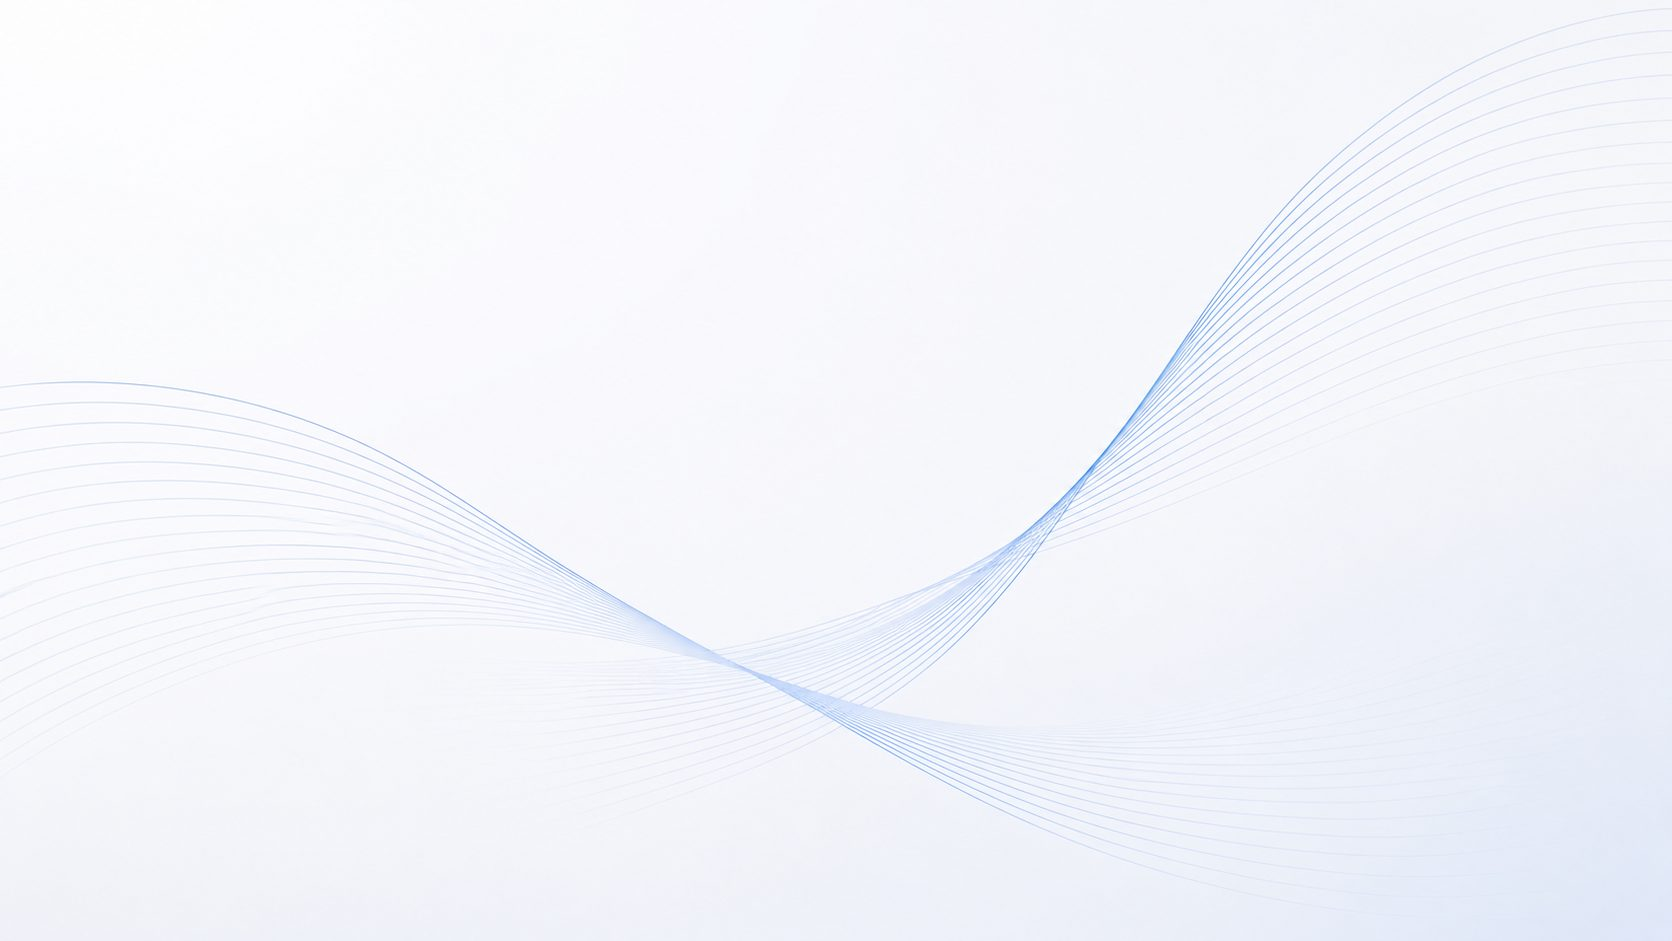
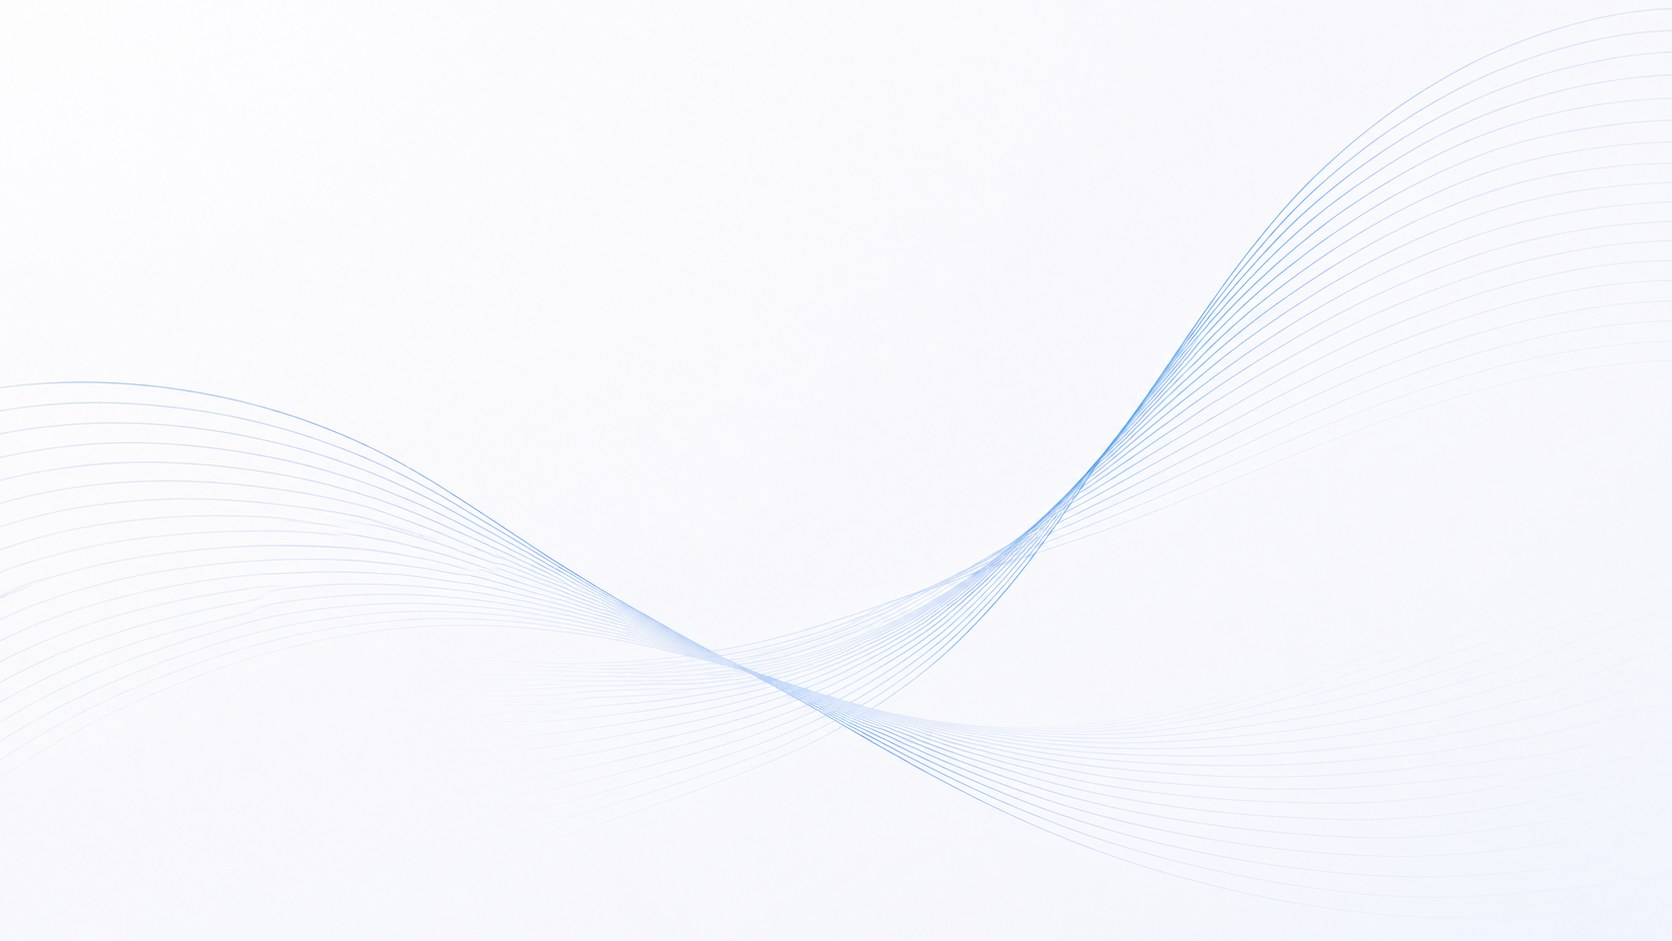
헤더 배경 4K 원본으로 고화질 교체

Changed region(s): [[0.6531, 0.2465, 0.7775, 0.5239], [0.5598, 0.5239, 0.6531, 0.678], [0.5287, 0.678, 0.5598, 0.7088]]

diff --git a/index.html b/index.html
@@ -13,7 +13,7 @@
   /* ===== 이 페이지에만 쓰는 것 ===== */
 
   /* ① 히어로 — 가운데 한 마디 + 한 장씩 넘어가는 대화 카드 (레퍼런스 방식) */
-  .hero{position:relative; background:#F2F5FB url('img/hero-bg3.jpg?v=2') center/cover no-repeat;
+  .hero{position:relative; background:#F2F5FB url('img/hero-bg3.jpg?v=3') center/cover no-repeat;
     padding:88px 0 calc(48px + 9vw); overflow:clip;}
   /* 아랫단 원호 — 화면 폭에 비례해 어디서나 같은 곡률 */
   .hcap{position:absolute; left:0; bottom:-1px; width:100%; height:auto; display:block; pointer-events:none;}
